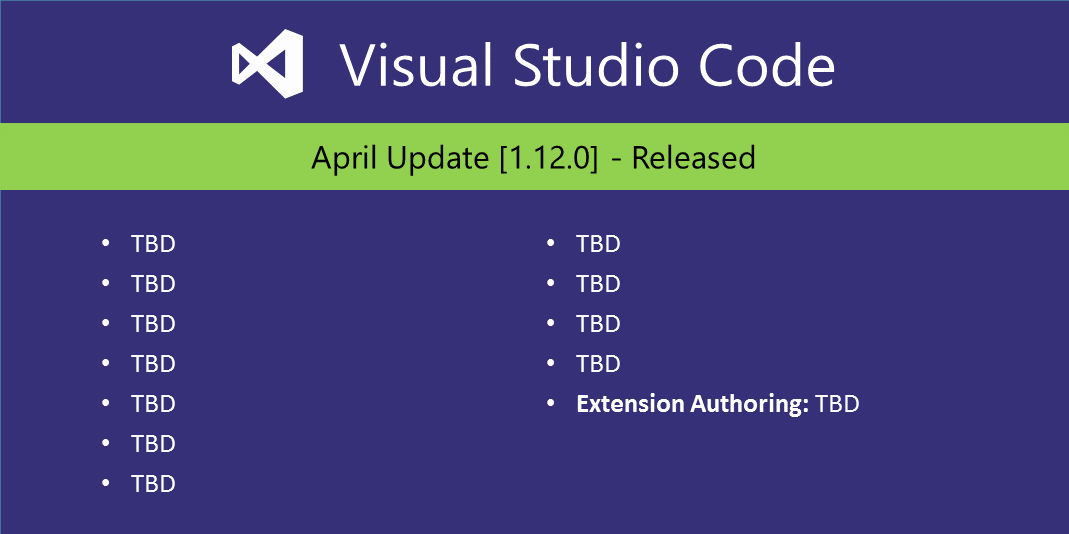
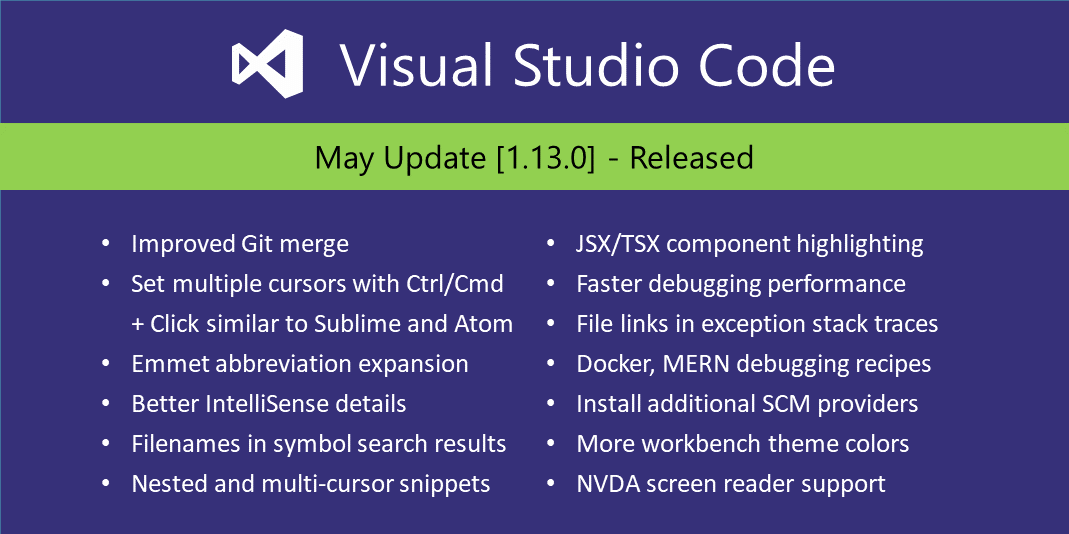
Add 1.13 social image

diff --git a/release-notes/v1_13.md b/release-notes/v1_13.md
@@ -28,7 +28,7 @@ The release notes are arranged in the following sections related to VS Code focu
 * **[Workbench](#workbench)** - Filenames in symbol search, disable menu bar mnemonics.
 * **[Editor](#editor)** - Resizable Find widget, new folding control settings.
 * **[Languages](#languages)** - JSX/TSX component highlighting, Markdown headers in symbol search.
-* **[Debugging](#debugging)** - Copy All from Debug Console, file links in Exception stack traces.
+* **[Debugging](#debugging)** - Copy All from Debug Console, local/remote paths in launch configurations.
 * **[Tasks](#tasks)** - Autodetect and customize Gulp and Grunt tasks to run in VS Code.
 * **[Extension Authoring](#extension-authoring)** - Custom views in the Explorer, reference theme colors.
 
